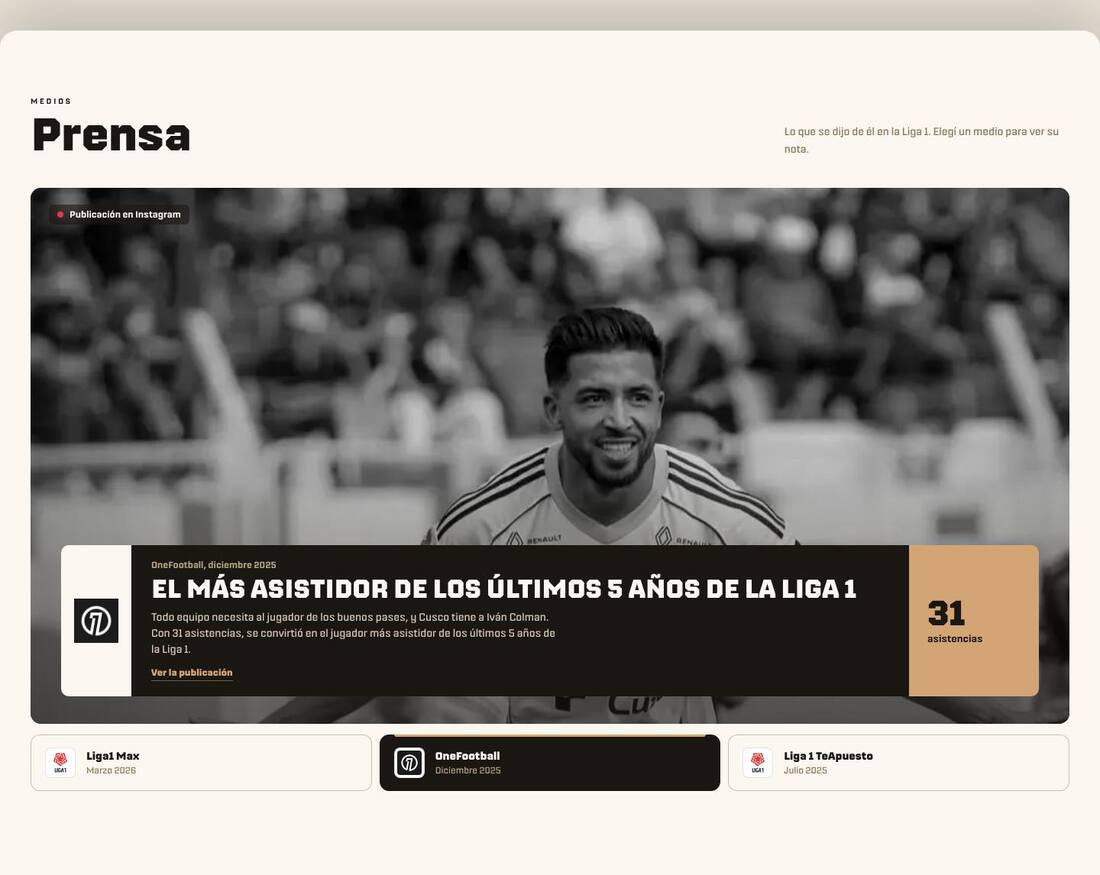
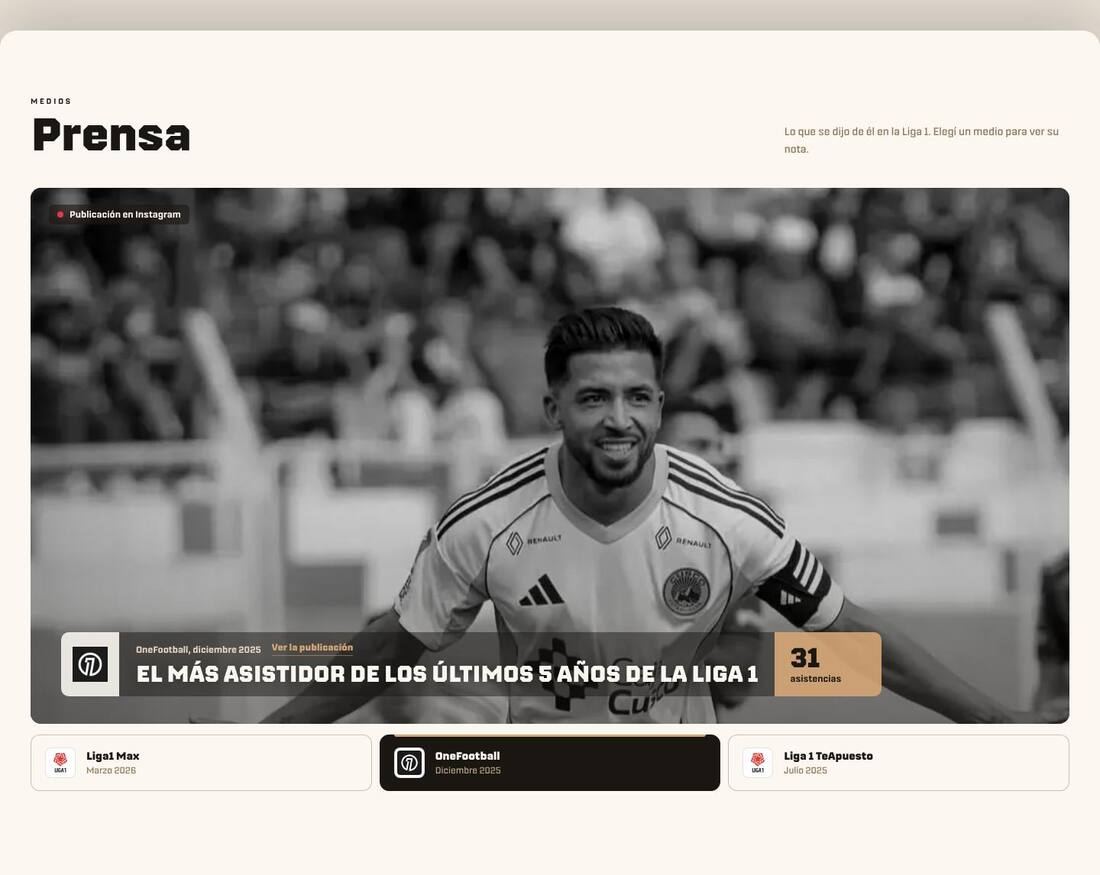
catálogo: Zócalo compacto y translúcido, aplicado en Ivan Colman
Claude-Session: https://claude.ai/code/session_01SrwUJPFXz3FtMXcXL4zG6H

Changed region(s): [[0.0309, 0.5554, 0.9891, 0.8331]]

diff --git a/modelos/06-prensa/previews/opcion-4-zocalo.html b/modelos/06-prensa/previews/opcion-4-zocalo.html
@@ -49,21 +49,21 @@ button{font:inherit;color:inherit;background:none;border:0;cursor:pointer}
 .tv{margin-top:40px;position:relative;aspect-ratio:16/9;max-height:78vh;width:100%;border-radius:14px;overflow:hidden;background:#1A1612;isolation:isolate}
 .tv .ph{position:absolute;inset:0;width:100%;height:100%;object-fit:cover;filter:grayscale(1) contrast(1.08) brightness(.82);transition:opacity .45s var(--ease-out),filter .45s var(--ease-out)}
 .tv .ph.out{opacity:0;filter:grayscale(1) blur(6px) brightness(.82)}
-.tv::after{content:'';position:absolute;inset:0;z-index:1;pointer-events:none;background:linear-gradient(180deg,transparent 45%,rgba(26,22,18,.55) 100%)}
+.tv::after{content:'';position:absolute;inset:0;z-index:1;pointer-events:none;background:linear-gradient(180deg,transparent 60%,rgba(26,22,18,.32) 100%)}
 /* El zócalo: barra de transmisión, entra con un barrido de izquierda a derecha */
-.lt{position:absolute;left:40px;right:40px;bottom:36px;z-index:2;display:grid;grid-template-columns:auto minmax(0,1fr) auto;align-items:stretch;
+.lt{position:absolute;left:40px;right:auto;max-width:calc(100% - 80px);bottom:36px;z-index:2;display:grid;grid-template-columns:auto minmax(0,1fr) auto;align-items:stretch;
   clip-path:inset(0 0 0 0);transition:clip-path .32s var(--ease-out)}
 .lt.wipe{clip-path:inset(0 100% 0 0);transition:none}
-.lt-logo{display:grid;place-items:center;width:92px;background:#FCF7F0;border-radius:10px 0 0 10px}
-.lt-logo img{width:58px;height:58px;object-fit:contain}
-.lt-body{background:#1A1612;color:#FCF7F0;padding:20px 26px 20px;min-width:0}
-.lt-body small{display:block;font:500 12px/1 var(--f);color:#B8A485}
-.lt-body h3{margin-top:8px;font:700 clamp(22px,2.4vw,34px)/1 var(--f);text-transform:uppercase;letter-spacing:-.005em;color:#FCF7F0}
-.lt-body p{margin-top:10px;font:400 14px/1.5 var(--f);color:#D9CBB8;max-width:64ch}
-.lt-stat{display:flex;flex-direction:column;justify-content:center;align-items:flex-start;gap:6px;min-width:170px;padding:16px 24px;background:var(--gold);color:#1A1612;border-radius:0 10px 10px 0}
-.lt-stat b{font:700 46px/.9 var(--f);letter-spacing:-.02em}
-.lt-stat span{font:500 13px/1.1 var(--f)}
-.lt a{display:inline-flex;align-items:center;gap:8px;margin-top:14px;font:700 12px/1 var(--f);color:var(--gold);text-decoration:none;border-bottom:1.5px solid rgba(212,165,116,.5);padding-bottom:4px;transition:border-color .2s ease}
+.lt-logo{display:grid;place-items:center;width:76px;background:rgba(252,247,240,.88);border-radius:10px 0 0 10px;backdrop-filter:blur(12px);-webkit-backdrop-filter:blur(12px)}
+.lt-logo img{width:46px;height:46px;object-fit:contain}
+.lt-body{background:rgba(26,22,18,.48);backdrop-filter:blur(14px) saturate(1.1);-webkit-backdrop-filter:blur(14px) saturate(1.1);color:#FCF7F0;padding:14px 22px 15px;min-width:0;display:flex;flex-direction:column;justify-content:center}
+.lt-src{display:flex;align-items:center;gap:14px;flex-wrap:wrap}
+.lt-body small{display:block;font:500 12px/1 var(--f);color:#E8D5C3}
+.lt-body h3{margin-top:8px;font:700 clamp(20px,2.1vw,30px)/1 var(--f);text-shadow:0 1px 12px rgba(0,0,0,.25);text-transform:uppercase;letter-spacing:-.005em;color:#FCF7F0}
+.lt-stat{display:flex;flex-direction:column;justify-content:center;align-items:flex-start;gap:5px;min-width:140px;padding:12px 20px;background:rgba(212,165,116,.9);backdrop-filter:blur(12px);-webkit-backdrop-filter:blur(12px);color:#1A1612;border-radius:0 10px 10px 0}
+.lt-stat b{font:700 36px/.9 var(--f);letter-spacing:-.02em}
+.lt-stat span{font:500 12px/1.1 var(--f)}
+.lt a{display:inline-flex;align-items:center;gap:8px;font:700 12px/1 var(--f);color:var(--gold);text-decoration:none;border-bottom:1.5px solid rgba(212,165,116,.5);padding-bottom:4px;transition:border-color .2s ease}
 .lt a:focus-visible{outline:2px solid var(--gold);outline-offset:4px}
 @media (hover:hover) and (pointer:fine){.lt a:hover{border-color:var(--gold)}}
 .onair{position:absolute;top:22px;left:24px;z-index:2;display:flex;align-items:center;gap:8px;padding:7px 11px;border-radius:6px;background:rgba(26,22,18,.6);color:#FCF7F0;font:500 12px/1 var(--f)}
@@ -86,17 +86,17 @@ button{font:inherit;color:inherit;background:none;border:0;cursor:pointer}
   .lt{left:20px;right:20px;bottom:20px}
 }
 @media (max-width:720px){
-  .tv{aspect-ratio:auto;height:auto;min-height:0;display:flex;flex-direction:column;justify-content:flex-end;max-height:none}
-  .tv .ph{position:relative;height:300px;flex:none}
-  .tv::after{height:300px;bottom:auto}
-  .lt{position:relative;left:auto;right:auto;bottom:auto;grid-template-columns:auto minmax(0,1fr);margin-top:-46px}
-  .lt-logo{width:64px;border-radius:10px 0 0 0}
-  .lt-logo img{width:40px;height:40px}
-  .lt-body{padding:16px 16px 18px;border-radius:0 10px 0 0}
-  .lt-body h3{font-size:20px}
-  .lt-body p{font-size:13px}
-  .lt-stat{grid-column:1 / -1;flex-direction:row;align-items:baseline;gap:10px;min-width:0;padding:14px 16px;border-radius:0 0 10px 10px}
-  .lt-stat b{font-size:34px}
+  .tv{aspect-ratio:4/5;max-height:none}
+  .lt{position:absolute;left:12px;right:12px;bottom:12px;max-width:none;grid-template-columns:auto minmax(0,1fr) auto}
+  .lt-logo{width:48px}
+  .lt-logo img{width:30px;height:30px}
+  .lt-body{padding:11px 12px 12px}
+  .lt-src{gap:10px}
+  .lt-body small,.lt a{font-size:11px}
+  .lt-body h3{font-size:16px;margin-top:6px}
+  .lt-stat{min-width:0;padding:10px 12px;gap:3px}
+  .lt-stat b{font-size:24px}
+  .lt-stat span{font-size:10px;max-width:9ch}
   .channels{grid-template-columns:none;grid-auto-flow:column;grid-auto-columns:78%;overflow-x:auto;scroll-snap-type:x mandatory;scrollbar-width:none;margin-right:-16px;padding-right:16px}
   .channels::-webkit-scrollbar{display:none}
   .ch{scroll-snap-align:start}
@@ -113,8 +113,7 @@ button{font:inherit;color:inherit;background:none;border:0;cursor:pointer}
     <span class="onair"><i></i><span id="onair"></span></span>
     <div class="lt" id="lt">
       <div class="lt-logo"><img id="lt-logo" alt=""></div>
-      <div class="lt-body"><small id="lt-src"></small><h3 id="lt-title"></h3><p id="lt-quote"></p>
-        <a id="lt-link" target="_blank" rel="noopener noreferrer">Ver la publicación</a></div>
+      <div class="lt-body"><div class="lt-src"><small id="lt-src"></small><a id="lt-link" target="_blank" rel="noopener noreferrer">Ver la publicación</a></div><h3 id="lt-title"></h3></div>
       <div class="lt-stat"><b id="lt-num"></b><span id="lt-unit"></span></div>
     </div>
   </div>
@@ -155,7 +154,7 @@ const show = (i, { animate = true } = {}) => {
   const paint = () => {
     $('ph').src = x.ph; $('ph').style.objectPosition = x.pos; $('ph').classList.remove('out')
     $('lt-logo').src = n.logo; $('lt-src').textContent = `${n.media}, ${n.date.toLowerCase()}`; $('lt-title').textContent = n.title
-    $('lt-quote').textContent = n.quote; $('lt-link').href = n.url; $('lt-num').textContent = x.num; $('lt-unit').textContent = x.unit
+    $('lt-link').href = n.url; $('lt-num').textContent = x.num; $('lt-unit').textContent = x.unit
     $('onair').textContent = `${n.type} en Instagram`
   }
   if (!animate) { paint(); return }

diff --git a/modelos/06-prensa/README.md b/modelos/06-prensa/README.md
@@ -5,7 +5,7 @@
 | 1 | **Titulares** | ✅ Aplicado en Keki | [html](previews/opcion-1-titulares.html) · ![](previews/opcion-1-titulares.jpg) |
 | 2 | Recortes | Alternativa | [html](previews/opcion-2-recortes.html) · ![](previews/opcion-2-recortes.jpg) |
 | 3 | Destacada | Alternativa | [html](previews/opcion-3-destacada.html) · ![](previews/opcion-3-destacada.jpg) |
-| 4 | Zócalo | Alternativa (hecho para Ivan Colman) | [html](previews/opcion-4-zocalo.html) · ![](previews/opcion-4-zocalo.jpg) |
+| 4 | Zócalo | Alternativa (aplicado en Ivan Colman) | [html](previews/opcion-4-zocalo.html) · ![](previews/opcion-4-zocalo.jpg) |
 | 5 | Pase a pase | Alternativa (hecho para Ivan Colman) | [html](previews/opcion-5-pase.html) · ![](previews/opcion-5-pase.jpg) |
 
 Los datos están en `playerData.press`: `{ media, logo, type, title, date, url }`.
@@ -19,5 +19,5 @@ Los datos están en `playerData.press`: `{ media, logo, type, title, date, url }
 - **2. Recortes:** cada nota es un recorte de diario sobre papel crema, con cinta y borde dentado, levemente girado. Tiene mucha personalidad y funciona hasta con 3 o 4 notas.
 - **3. Destacada:** la nota más fuerte va grande, con una foto en blanco y negro y la cita entre comillas. Las demás van en una columna al costado. Es el modelo para cuando hay una nota claramente mejor que el resto.
 
-- **4. Zócalo:** cada nota como el gráfico de una transmisión de TV. Una pantalla 16:9 con una foto del jugador en blanco y negro y, encima, el zócalo: logo del medio, titular, cita y un recuadro dorado con el dato de la nota (por ejemplo, 328 pases o 31 asistencias). Debajo, un "canal" por medio para cambiar la nota (`role="tab"`). Al cambiar, el zócalo vuelve a entrar con un barrido (`clip-path`) y la foto se funde con un desenfoque leve; con teclado el cambio es inmediato. Necesita un dato y una foto por nota. En celular la foto pasa arriba y los canales se deslizan.
+- **4. Zócalo:** cada nota como el gráfico de una transmisión de TV. Una pantalla 16:9 con una foto del jugador en blanco y negro y, encima, un zócalo compacto y translúcido (fondo con desenfoque): logo del medio, titular y un recuadro dorado con el dato de la nota (por ejemplo, 328 pases o 31 asistencias). La cita no se muestra, para no tapar la foto. Debajo, un "canal" por medio para cambiar la nota (`role="tab"`). Al cambiar, el zócalo vuelve a entrar con un barrido (`clip-path`) y la foto se funde con un desenfoque leve; con teclado el cambio es inmediato. Necesita un dato y una foto por nota. En celular la foto pasa arriba y los canales se deslizan.
 - **5. Pase a pase:** las notas en orden cronológico, unidas por arcos punteados como en una pizarra táctica. Al elegir una, la pelota viaja por los arcos hasta esa nota (`getPointAtLength`, ease-in-out) y la cita aparece grande debajo. Con teclado no se anima. Es el modelo para un jugador asistidor o armador, y funciona con 2 a 5 notas.
